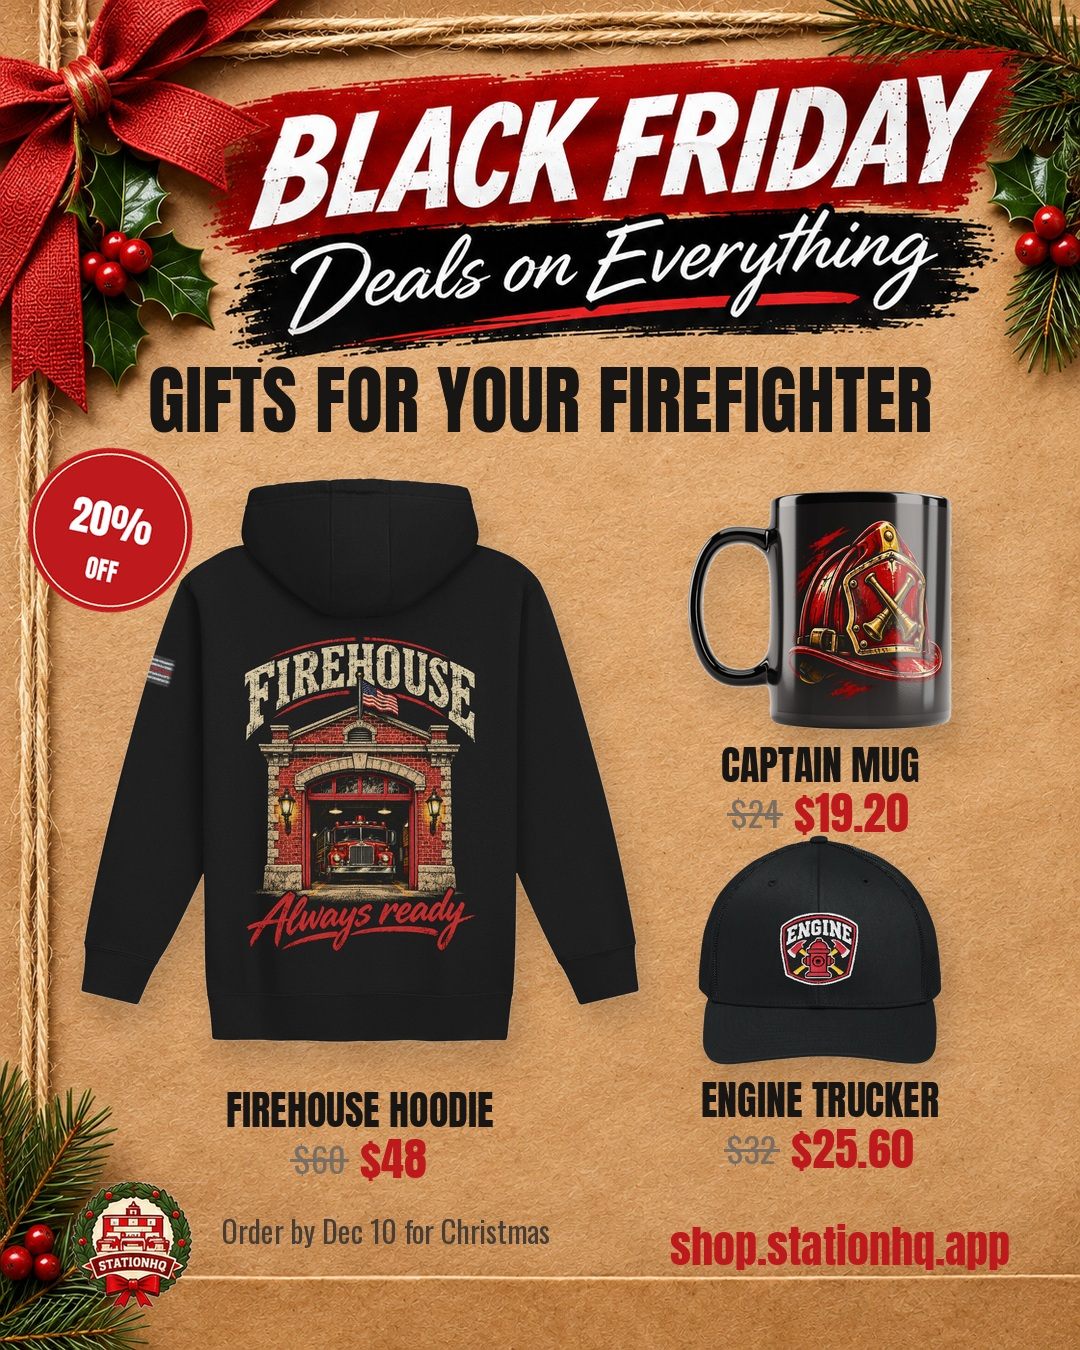
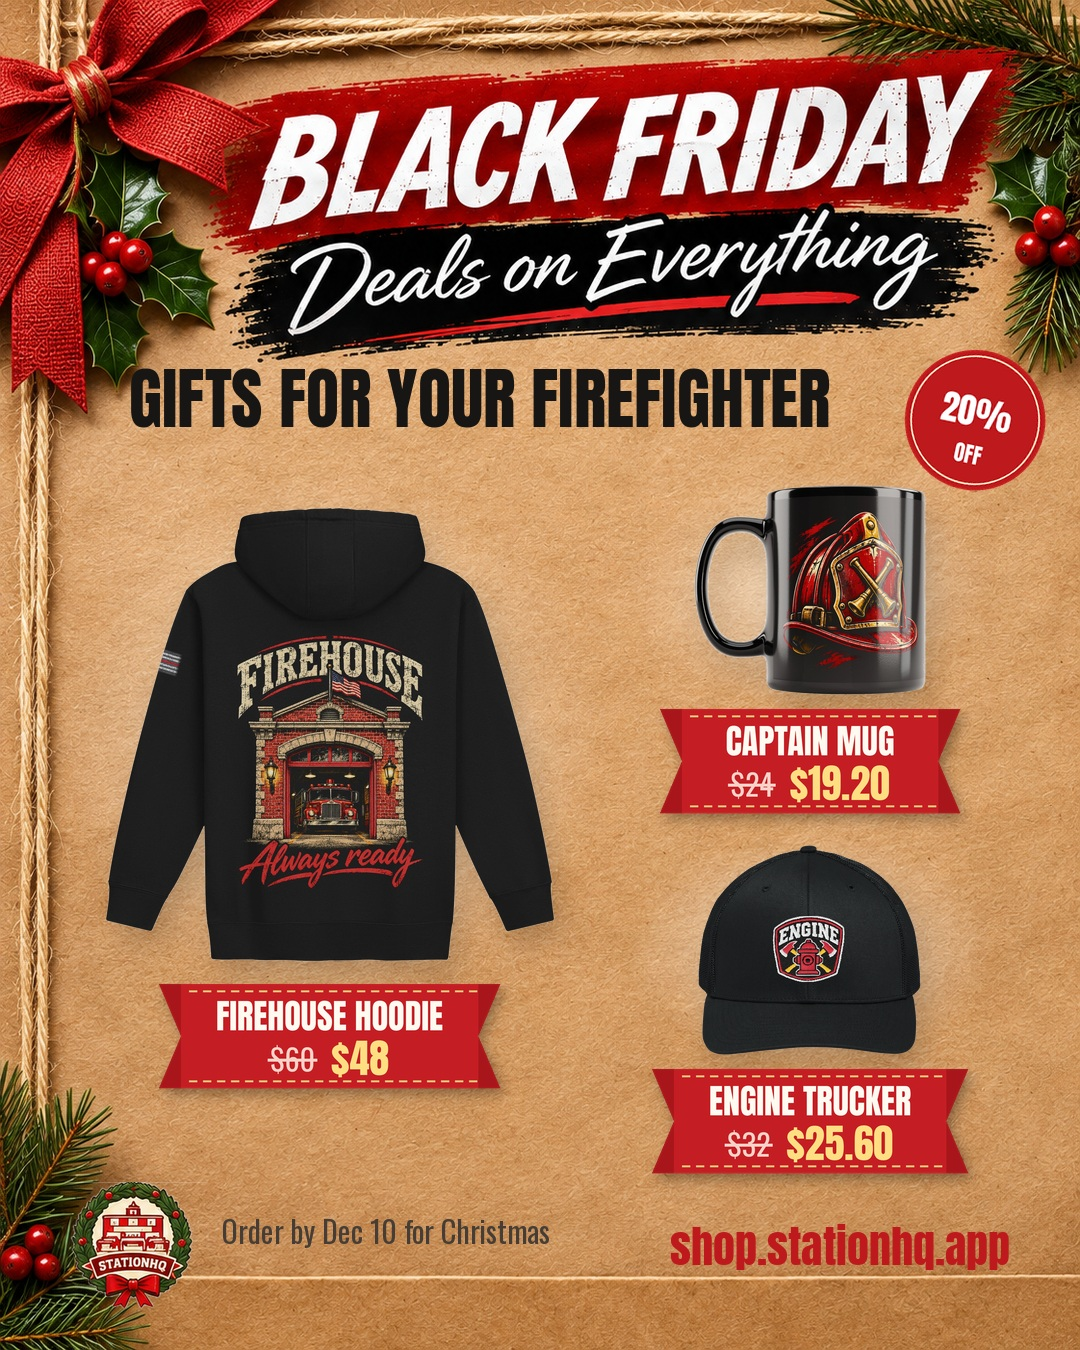
Black Friday ads: ribbon price tag style, all 11
Claude-Session: https://claude.ai/code/session_019hAQwsAPzfriaFpaAttWio

Changed region(s): [[0.0, 0.2489, 0.9778, 0.9022]]

diff --git a/content/blackfriday/mixed.py b/content/blackfriday/mixed.py
@@ -9,45 +9,121 @@ def fit_headline(b, text, y, dark=False, maxw=760, size=78):
     d.text((W // 2 - 60, y), text, font=BIG(size), fill='white' if dark else (24, 22, 20), anchor='mm')
 
 CARDS = True
+STYLE = 'festive'
+TXT_LIGHT = False
+def _shadow(b, x0, y0, w, h, r=24, alpha=80, ang=0):
+    sh = Image.new('RGBA', (w + 80, h + 80), (0, 0, 0, 0))
+    ImageDraw.Draw(sh).rounded_rectangle([40, 46, w + 40, h + 46], r, fill=(0, 0, 0, alpha))
+    sh = sh.filter(ImageFilter.GaussianBlur(13))
+    if ang: sh = sh.rotate(ang, resample=Image.BICUBIC)
+    b.alpha_composite(sh, (x0 - 40, y0 - 40))
+
 def card(b, x0, y0, x1, y1, dark=False):
     w, h = x1 - x0, y1 - y0
-    sh = Image.new('RGBA', (w + 60, h + 60), (0, 0, 0, 0))
-    ImageDraw.Draw(sh).rounded_rectangle([30, 36, w + 30, h + 36], 24, fill=(0, 0, 0, 80))
-    b.alpha_composite(sh.filter(ImageFilter.GaussianBlur(12)), (x0 - 30, y0 - 30))
-    # warm vertical gradient: soft blush top -> warm cream bottom, slightly see-through
+    if STYLE == 'frost':
+        _shadow(b, x0, y0, w, h, alpha=55)
+        reg = b.crop((x0, y0, x1, y1)).filter(ImageFilter.GaussianBlur(14))
+        white = Image.new('RGBA', (w, h), (255, 255, 255, 150))
+        reg.alpha_composite(white)
+        m = Image.new('L', (w, h), 0); ImageDraw.Draw(m).rounded_rectangle([0, 0, w - 1, h - 1], 26, fill=255)
+        b.paste(reg, (x0, y0), m)
+        ImageDraw.Draw(b).rounded_rectangle([x0, y0, x1 - 1, y1 - 1], 26, outline=(255, 255, 255, 220), width=3)
+        return
+    if STYLE == 'red':
+        _shadow(b, x0, y0, w, h, alpha=90)
+        l = Image.new('RGBA', (w, h), (0, 0, 0, 0)); d = ImageDraw.Draw(l)
+        top, bot = (196, 34, 36), (128, 14, 20)
+        for yy in range(h):
+            t = yy / (h - 1); d.line([(0, yy), (w, yy)], fill=tuple(int(top[i] + (bot[i] - top[i]) * t) for i in range(3)) + (255,))
+        g = Image.radial_gradient('L').resize((w, int(h * .85))).point(lambda v: max(0, 150 - v))
+        gl = Image.new('RGBA', g.size, (255, 230, 210, 0)); gl.putalpha(g); l.alpha_composite(gl, (0, 0))
+        m = Image.new('L', (w, h), 0); ImageDraw.Draw(m).rounded_rectangle([0, 0, w - 1, h - 1], 24, fill=255)
+        out = Image.new('RGBA', (w, h), (0, 0, 0, 0)); out.paste(l, (0, 0), m)
+        ImageDraw.Draw(out).rounded_rectangle([5, 5, w - 6, h - 6], 20, outline=(222, 182, 100, 255), width=2)
+        b.alpha_composite(out, (x0, y0)); return
+    if STYLE == 'kraft':
+        _shadow(b, x0, y0, w, h, r=10, alpha=85)
+        l = Image.new('RGBA', (w, h), (214, 184, 140, 255)); d = ImageDraw.Draw(l)
+        import random as _r; rr = _r.Random(x0 * 7 + y0)
+        for _ in range(w * h // 60):
+            x, y = rr.randrange(w), rr.randrange(h); c = rr.randint(-14, 14)
+            d.point((x, y), fill=(214 + c, 184 + c, 140 + c, 255))
+        l = l.filter(ImageFilter.GaussianBlur(.6))
+        d = ImageDraw.Draw(l)
+        d.rectangle([0, 0, w - 1, h - 1], outline=(168, 132, 88, 255), width=2)
+        d.line([(w // 2 - 1, 0), (w // 2 - 1, 22)], fill=(176, 28, 32, 255), width=6)
+        d.ellipse([w // 2 - 10, 14, w // 2 + 8, 32], fill=(244, 236, 220, 255), outline=(150, 112, 70, 255), width=2)
+        b.alpha_composite(l, (x0, y0)); return
+    # festive (current)
+    _shadow(b, x0, y0, w, h)
     top, bot = (252, 236, 226), (244, 230, 206)
-    grad = Image.new('RGBA', (w, h))
-    gd = ImageDraw.Draw(grad)
+    grad = Image.new('RGBA', (w, h)); gd = ImageDraw.Draw(grad)
     for yy in range(h):
         t = yy / max(1, h - 1)
         gd.line([(0, yy), (w, yy)], fill=tuple(int(top[i] + (bot[i] - top[i]) * t) for i in range(3)) + (232,))
-    # soft light behind the product
-    glow = Image.radial_gradient('L').resize((int(w * 1.1), int(h * .9))).point(lambda v: max(0, 120 - v // 2))
-    gl = Image.new('RGBA', glow.size, (255, 252, 246, 0)); gl.putalpha(glow)
-    grad.alpha_composite(gl, (int(-w * .05), int(-h * .05)))
-    mask = Image.new('L', (w, h), 0)
-    ImageDraw.Draw(mask).rounded_rectangle([0, 0, w - 1, h - 1], 24, fill=255)
-    card_img = Image.new('RGBA', (w, h), (0, 0, 0, 0)); card_img.paste(grad, (0, 0), mask)
-    d = ImageDraw.Draw(card_img)
-    # red top band + gold rule
-    band = Image.new('RGBA', (w, h), (0, 0, 0, 0)); bd = ImageDraw.Draw(band)
-    bd.rounded_rectangle([0, 0, w - 1, 40], 24, fill=(176, 28, 32, 255))
-    band_mask = Image.new('L', (w, h), 0); ImageDraw.Draw(band_mask).rectangle([0, 0, w, 11], fill=255)
-    band_mask = Image.composite(band_mask, Image.new('L', (w, h), 0), mask)
-    card_img.paste(band, (0, 0), band_mask)
+    mask = Image.new('L', (w, h), 0); ImageDraw.Draw(mask).rounded_rectangle([0, 0, w - 1, h - 1], 24, fill=255)
+    ci = Image.new('RGBA', (w, h), (0, 0, 0, 0)); ci.paste(grad, (0, 0), mask)
+    d = ImageDraw.Draw(ci)
+    d.rectangle([0, 0, w, 11], fill=(176, 28, 32, 255))
+    ci.putalpha(Image.composite(ci.split()[3], Image.new('L', (w, h), 0), mask))
+    d = ImageDraw.Draw(ci)
     d.line([(14, 13), (w - 14, 13)], fill=(206, 168, 92, 255), width=2)
     d.rounded_rectangle([0, 0, w - 1, h - 1], 24, outline=(196, 160, 110, 255), width=2)
-    b.alpha_composite(card_img, (x0, y0))
+    b.alpha_composite(ci, (x0, y0))
+
+def ribbon_tag(b, cx, cy, lab, price, note):
+    d0 = ImageDraw.Draw(b)
+    f1, f2, f3 = BIG(34), SM(28), BIG(40)
+    if price is not None:
+        new = price * 80 / 100; new_s = f'${new:.2f}'.replace('.00', ''); old_s = f'${price:.0f}'
+    w1 = d0.textlength(lab, font=f1)
+    line2 = (old_s + '  ' + new_s) if price is not None else note
+    w2 = d0.textlength(line2, font=f3) + 10
+    tw = int(max(w1, w2) + 70); th = 104
+    S = 3
+    l = Image.new('RGBA', ((tw + 60) * S, (th + 20) * S), (0, 0, 0, 0)); d = ImageDraw.Draw(l)
+    x0, y0, x1, y1 = 30 * S, 4 * S, (30 + tw) * S, (4 + th) * S
+    nz = 22 * S
+    d.polygon([(x0 - nz, y0), (x1 + nz, y0), (x1, (y0 + y1) / 2), (x1 + nz, y1), (x0 - nz, y1), (x0, (y0 + y1) / 2)], fill=(168, 22, 28, 255))
+    d.rectangle([x0, y0, x1, y1], fill=(196, 30, 36, 255))
+    for yy in (y0 + 7 * S, y1 - 7 * S):
+        xx = x0 + 8 * S
+        while xx < x1 - 8 * S:
+            d.line([(xx, yy), (xx + 8 * S, yy)], fill=(232, 196, 120, 255), width=2 * S); xx += 14 * S
+    cxl = (x0 + x1) / 2
+    d.text((cxl, y0 + 32 * S), lab, font=BIG(34 * S), fill=(255, 250, 240), anchor='mm')
+    if price is not None:
+        fo, fn = SM(30 * S), BIG(40 * S)
+        wo, wn = d.textlength(old_s, font=fo), d.textlength(new_s, font=fn)
+        sx = cxl - (wo + 16 * S + wn) / 2; yy = y0 + 74 * S
+        d.text((sx, yy), old_s, font=fo, fill=(250, 210, 200), anchor='lm')
+        d.line([(sx - 2 * S, yy + 2 * S), (sx + wo + 2 * S, yy + 2 * S)], fill=(250, 210, 200), width=3 * S)
+        d.text((sx + wo + 16 * S, yy), new_s, font=fn, fill=(255, 222, 130), anchor='lm')
+    else:
+        d.text((cxl, y0 + 74 * S), note, font=BIG(34 * S), fill=(255, 222, 130), anchor='mm')
+    l = l.resize((tw + 60, th + 20), Image.LANCZOS)
+    sh = Image.new('RGBA', l.size, (0, 0, 0, 0)); sh.putalpha(l.split()[3].point(lambda v: v // 3))
+    b.alpha_composite(sh.filter(ImageFilter.GaussianBlur(6)), (int(cx - l.width / 2) + 4, int(cy) + 6))
+    b.alpha_composite(l, (int(cx - l.width / 2), int(cy)))
 
 def item(b, it, cx, cy, box, dark=False, cw=None):
     name, lab, price, note = it
+    if STYLE == 'tag':
+        gw, gh = int(box[0] * 1.25), int(box[1] * 1.15)
+        g = Image.radial_gradient('L').resize((gw, gh)).point(lambda v: max(0, int((255 - v) * .9) - 70))
+        gl = Image.new('RGBA', (gw, gh), (255, 250, 240, 0)); gl.putalpha(g)
+        b.alpha_composite(gl, (int(cx - gw / 2), int(cy - gh / 2)))
+        place(b, name, cx, cy, box)
+        ribbon_tag(b, cx, cy + box[1] / 2 + 10, lab, price, note)
+        return
     if CARDS:
         cw = cw or box[0] + 40
         card(b, int(cx - cw / 2), int(cy - box[1] / 2 - 26), int(cx + cw / 2), int(cy + box[1] / 2 + 104))
-        dark_txt = False
+        dark_txt = (STYLE == 'red')
     else:
         dark_txt = dark
-    x, y, w, h = place(b, name, cx, cy, box, glow=dark and not CARDS)
+    import build as _b; _b.NEWC = (255, 214, 120) if (CARDS and STYLE == 'red') else None
+    x, y, w, h = place(b, name, cx, cy, box, glow=(dark and not CARDS))
     dark = dark_txt
     ly = cy + box[1] / 2 + 36
     label(b, cx, ly, lab, dark)
@@ -55,7 +131,7 @@ def item(b, it, cx, cy, box, dark=False, cw=None):
         sale_tag(b, cx, ly + 46, price, dark)
     else:
         d = ImageDraw.Draw(b)
-        d.text((cx, ly + 44), note, font=BIG(36), fill=(255, 90, 80) if dark else RED, anchor='mm')
+        d.text((cx, ly + 44), note, font=BIG(36), fill=((255, 214, 120) if STYLE == 'red' else (255, 90, 80)) if dark else RED, anchor='mm')
 
 def ad(key, head, layout, items, out, dark=False):
     b = bg(key)
@@ -74,39 +150,34 @@ ROW32 = [(205, 590, 280, 210), (540, 590, 280, 210), (875, 590, 280, 210), (330,
 COLOR = ('book:book_coloring.webp', 'COLORING BOOK', None, '$9.99 ON AMAZON')
 NOZZLE = ('book:book_nozzle.webp', "NOZZLE'S BIG NIGHT", None, 'ON AMAZON')
 
-ad('snow', 'FOR THE FIREFIGHTER WHO TRAINS', GRID4, [
-    ('shq-fit-stencil-tee_1', 'SHQ FIT STENCIL TEE', 28, ''),
-    ('shq-fit-stencil-tee-light_1', 'STENCIL TEE · OLIVE', 28, ''),
-    ('shq-fit-rope-cap_1', 'SHQ FIT ROPE CAP', 34, ''),
-    ('shq-fit-tag-tee_1', 'SHQ FIT TAG TEE', 28, ''),
-], 'bf_gym_snow')
+ROW33 = [(205, 585, 270, 200), (540, 585, 270, 200), (875, 585, 270, 200), (205, 950, 270, 200), (540, 950, 270, 200), (875, 950, 270, 200)]
+MUG6 = [('probie-mug_1', 'PROBIE', 24, ''), ('firefighter-mug_1', 'FIREFIGHTER', 24, ''), ('engineer-mug_1', 'ENGINEER', 24, ''),
+        ('lieutenant-mug_1', 'LIEUTENANT', 24, ''), ('captain-mug_1', 'CAPTAIN', 24, ''), ('chief-mug_1', 'CHIEF', 24, '')]
+HAT4 = [('engine-company-trucker_1', 'ENGINE', 32, ''), ('ladder-company-trucker_1', 'LADDER', 32, ''),
+        ('rescue-company-trucker_1', 'RESCUE', 32, ''), ('shq-firehouse-badge-beanie_1', 'FIREHOUSE BEANIE', 28, '')]
+GIFT3 = [('firehouse-hoodie_2', 'FIREHOUSE HOODIE', 60, ''), ('captain-mug_1', 'CAPTAIN MUG', 24, ''), ('engine-company-trucker_1', 'ENGINE TRUCKER', 32, '')]
 
-ad('wood', 'FOR THE WHOLE FIREHOUSE FAMILY', ROW32, [
-    ('firehouse-hoodie_2', 'FIREHOUSE HOODIE', 60, ''),
-    ('captain-mug_1', 'CAPTAIN MUG', 24, ''),
-    ('engine-company-trucker_1', 'ENGINE TRUCKER', 32, ''),
-    ('nozzle-kids-tee_1', 'NOZZLE KIDS TEE', 24, ''),
-    NOZZLE,
-], 'bf_family_wood')
-
-ad('stripe', 'STOCKING STUFFERS', GRID4, [
-    ('sticker-pack-12_1', '12-STICKER PACK', 14, ''),
-    ('probie-mug_1', 'PROBIE MUG', 24, ''),
-    COLOR,
-    ('shq-firehouse-badge-beanie_1', 'FIREHOUSE BEANIE', 28, ''),
-], 'bf_stockings_stripe')
-
-ad('paper', 'FOR THE JUNIOR FIREFIGHTER', HERO3, [
-    ('nozzle-kids-tee_1', 'NOZZLE KIDS TEE', 24, ''),
-    COLOR, NOZZLE,
-], 'bf_kids_paper')
-
-ad('kraft', 'SOMETHING FOR EVERY FIREFIGHTER', ROW32, [
-    ('shq-firehouse-badge-beanie_1', 'BEANIE', 28, ''),
-    ('chief-mug_1', 'CHIEF MUG', 24, ''),
-    ('shq-fit-stencil-tee_1', 'SHQ FIT TEE', 28, ''),
-    ('firehouse-tee_1', 'FIREHOUSE TEE', 36, ''),
-    ('sticker-pack-12_1', '12-STICKER PACK', 14, ''),
-], 'bf_everything_kraft')
-
-print('ok')
+if __name__ == '__main__':
+    STYLE = 'tag'
+    import os, glob
+    for f in glob.glob(f'{OUT}/*.jpg'): os.remove(f)
+    ad('wood', 'A MUG FOR EVERY RANK', ROW33, MUG6, 'bf_mugs_wood')
+    ad('stripe', 'A MUG FOR EVERY RANK', ROW33, MUG6, 'bf_mugs_stripe')
+    ad('paper', 'PICK YOUR COMPANY', GRID4, HAT4, 'bf_hats_paper')
+    ad('snow', 'PICK YOUR COMPANY', GRID4, HAT4, 'bf_hats_snow')
+    ad('dark', 'GIFTS FOR YOUR FIREFIGHTER', HERO3, GIFT3, 'bf_gifts_dark', dark=True)
+    ad('kraft', 'GIFTS FOR YOUR FIREFIGHTER', HERO3, GIFT3, 'bf_gifts_kraft')
+    ad('snow', 'FOR THE FIREFIGHTER WHO TRAINS', GRID4, [
+        ('shq-fit-stencil-tee_1', 'SHQ FIT STENCIL TEE', 28, ''), ('shq-fit-stencil-tee-light_1', 'STENCIL TEE · OLIVE', 28, ''),
+        ('shq-fit-rope-cap_1', 'SHQ FIT ROPE CAP', 34, ''), ('shq-fit-tag-tee_1', 'SHQ FIT TAG TEE', 28, '')], 'bf_gym_snow')
+    ad('wood', 'FOR THE WHOLE FIREHOUSE FAMILY', ROW32, [
+        ('firehouse-hoodie_2', 'FIREHOUSE HOODIE', 60, ''), ('captain-mug_1', 'CAPTAIN MUG', 24, ''),
+        ('engine-company-trucker_1', 'ENGINE TRUCKER', 32, ''), ('nozzle-kids-tee_1', 'NOZZLE KIDS TEE', 24, ''), NOZZLE], 'bf_family_wood')
+    ad('stripe', 'STOCKING STUFFERS', GRID4, [
+        ('sticker-pack-12_1', '12-STICKER PACK', 14, ''), ('probie-mug_1', 'PROBIE MUG', 24, ''), COLOR,
+        ('shq-firehouse-badge-beanie_1', 'FIREHOUSE BEANIE', 28, '')], 'bf_stockings_stripe')
+    ad('paper', 'FOR THE JUNIOR FIREFIGHTER', HERO3, [('nozzle-kids-tee_1', 'NOZZLE KIDS TEE', 24, ''), COLOR, NOZZLE], 'bf_kids_paper')
+    ad('kraft', 'SOMETHING FOR EVERY FIREFIGHTER', ROW32, [
+        ('shq-firehouse-badge-beanie_1', 'BEANIE', 28, ''), ('chief-mug_1', 'CHIEF MUG', 24, ''), ('shq-fit-stencil-tee_1', 'SHQ FIT TEE', 28, ''),
+        ('firehouse-tee_1', 'FIREHOUSE TEE', 36, ''), ('sticker-pack-12_1', '12-STICKER PACK', 14, '')], 'bf_everything_kraft')
+    print('ok')

diff --git a/content/blackfriday/build.py b/content/blackfriday/build.py
@@ -62,6 +62,7 @@ def place(base, name, cx, cy, box, glow=False):
     base.alpha_composite(p, (x, y))
     return x, y, p.width, p.height
 
+NEWC = None
 def sale_tag(base, cx, cy, price, dark=False):
     """Name-free price line: old price struck, new price bold."""
     d = ImageDraw.Draw(base)
@@ -74,7 +75,7 @@ def sale_tag(base, cx, cy, price, dark=False):
     oc = (200, 190, 175) if dark else (120, 110, 100)
     d.text((x0, cy), old_s, font=fo, fill=oc, anchor='lm')
     d.line([(x0 - 3, cy + 2), (x0 + wo + 3, cy + 2)], fill=oc, width=3)
-    d.text((x0 + wo + gap + wn / 2, cy), new_s, font=fn, fill=(255, 90, 80) if dark else RED, anchor='mm')
+    d.text((x0 + wo + gap + wn / 2, cy), new_s, font=fn, fill=NEWC or ((255, 90, 80) if dark else RED), anchor='mm')
 
 def badge(base, cx, cy, r=84):
     """Round '% OFF' sticker."""
